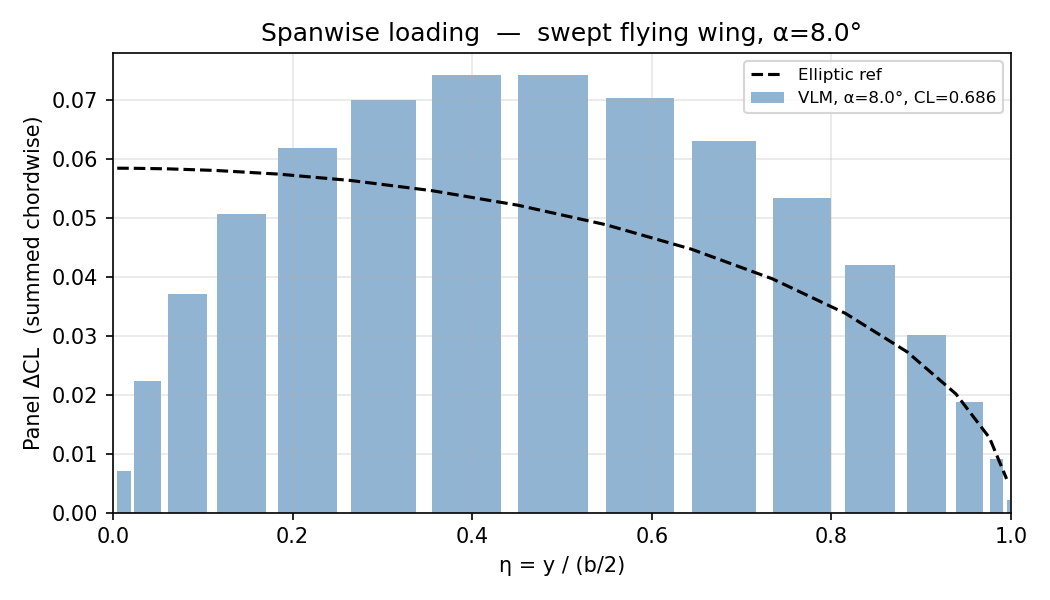
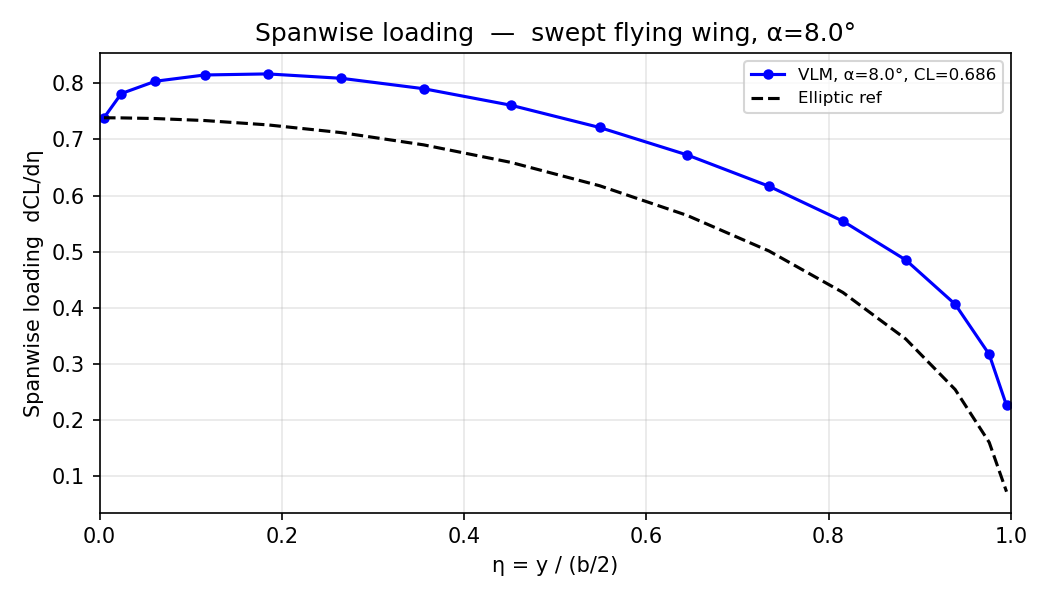
Fix spanwise loading plots: normalise by panel width
dCL per panel = Γ·Δy·(some factor), so on cosine-spaced meshes the root
panels have tiny Δy and appear near-zero even though Γ is maximum there.
Dividing by Δη = Δy/(b/2) recovers the true spanwise loading dCL/dη ∝ Γ(y),
which correctly peaks at the root for a symmetric half-wing model.

diff --git a/examples/01_rectangular_vlm/01_rectangular_vlm.py b/examples/01_rectangular_vlm/01_rectangular_vlm.py
@@ -103,37 +103,33 @@ mesh8 = make_vlm_mesh(half_span=HALF_SPAN, root_chord=CHORD, tip_chord=CHORD,
                       n_span=16, n_chord=1)
 res8 = solve_vlm(mesh8, alpha_deg=alpha_plot)
 
-# cp is the 3/4-chord collocation points; extract spanwise midpoints
-cp  = res8["cp"]           # (Np, 3)
-dCL = res8["dCL"]          # (Np,)  per-panel lift / (q * S_ref)
+dCL = res8["dCL"]          # (Np,)  panel lift contribution / (q * S_ref)
 A   = res8["A"]
 B   = res8["B"]
 
 # Spanwise coordinate at bound-vortex midpoint
 y_mid = 0.5 * (A[:, 1] + B[:, 1])   # (Np,)
+dy    = B[:, 1] - A[:, 1]            # (Np,) panel spanwise width
+b2    = HALF_SPAN
+eta   = y_mid / b2
+deta  = dy / b2                       # normalised panel width in η
 
-# For n_chord=1 each spanwise strip has one panel; normalise to strip-CL
-dy   = B[:, 1] - A[:, 1]       # (Np,) strip spanwise width
-b2   = HALF_SPAN
-# Elliptic reference: Gamma(y) = Gamma_0 * sqrt(1 - (y/b2)^2)
-# dCL/d(y/b2) for unit CL → proportional to sqrt(1-(y/b2)^2)
-CL8  = res8["CL"]
-eta  = y_mid / b2
-dCL_per_eta = dCL / (2 / b2)   # scale by strip width
+# Spanwise loading = dCL / dη.  dCL ∝ Γ·Δy so dividing by Δη gives the
+# loading distribution ∝ Γ(y), which peaks at the root for a symmetric wing.
+CL8          = res8["CL"]
+loading      = dCL / deta             # (Np,)  lift per unit η
 
-# Normalise by CL * c_local / c_ref → spanwise loading Gamma/(V*b)
-# For rectangular, just plot raw dCL vs y/b2
-fig, ax = plt.subplots(figsize=(6, 4))
-ax.plot(eta, dCL, "b-o", ms=4, label=f"VLM, α={alpha_plot}°, CL={CL8:.3f}")
-
-# Elliptic reference proportional to sqrt(1-eta^2), normalised to same CL
-eta_ref = np.linspace(0, 1, 200)
+# Elliptic reference: ∝ sqrt(1 - η²), normalised to match VLM at root
+eta_ref      = np.linspace(0, 1, 200)
 elliptic_ref = np.sqrt(np.maximum(1 - eta_ref**2, 0))
-scale = np.trapezoid(dCL, eta) / np.trapezoid(elliptic_ref, eta_ref)
+scale        = loading[0] / elliptic_ref[0]   # match at root (η≈0)
+
+fig, ax = plt.subplots(figsize=(6, 4))
+ax.plot(eta, loading, "b-o", ms=4, label=f"VLM, α={alpha_plot}°, CL={CL8:.3f}")
 ax.plot(eta_ref, elliptic_ref * scale, "k--", lw=1.5, label="Elliptic ref")
 
 ax.set_xlabel("η = y / (b/2)")
-ax.set_ylabel("Panel ΔCL  (per unit η)")
+ax.set_ylabel("Spanwise loading  dCL/dη")
 ax.set_title(f"Spanwise loading  –  AR={AR:.0f} rectangular, α={alpha_plot}°")
 ax.set_xlim(0, 1)
 ax.legend(fontsize=8)

diff --git a/examples/02_swept_flying_wing_vlm/02_swept_flying_wing_vlm.py b/examples/02_swept_flying_wing_vlm/02_swept_flying_wing_vlm.py
@@ -162,32 +162,30 @@ A   = res_load["A"]
 B   = res_load["B"]
 dCL = res_load["dCL"]   # per-panel lift / (q * S_ref)
 
-# Average bound-vortex y for each panel
-y_mid = 0.5 * (A[:, 1] + B[:, 1])   # (Np,)
-CL_load = res_load["CL"]
+# Spanwise coordinate at bound-vortex midpoint
+y_mid    = 0.5 * (A[:, 1] + B[:, 1])   # (Np,)
+dy_panel = B[:, 1] - A[:, 1]            # (Np,) panel widths
+CL_load  = res_load["CL"]
 
-# Spanwise integration: sum over chordwise panels per strip
-# Each panel is already a 1/4-chord bound-vortex segment; with n_chord > 1
-# there are multiple bound segments per spanwise strip.
-# Sort by y and accumulate per strip.
-unique_y = np.unique(np.round(y_mid, 6))
-dCL_strip = np.array([dCL[np.round(y_mid, 6) == yy].sum() for yy in unique_y])
+# Accumulate dCL per spanwise strip (sum over chordwise panels at same y).
+# Then normalise by strip η-width to get spanwise loading dCL/dη ∝ Γ(y).
+unique_y  = np.unique(np.round(y_mid, 6))
+dCL_strip = np.array([dCL[np.round(y_mid, 6) == yy].sum()     for yy in unique_y])
+dy_strip  = np.array([dy_panel[np.round(y_mid, 6) == yy].mean() for yy in unique_y])
 eta_strip = unique_y / HALF_SPAN
+deta      = dy_strip / HALF_SPAN
+loading   = dCL_strip / deta   # spanwise loading dCL/dη, peaks at root
 
-# Elliptic reference: normalised to same total CL
+# Elliptic reference: sqrt(1-η²), matched at root
 elliptic_shape = np.sqrt(np.maximum(1 - eta_strip**2, 0))
-if elliptic_shape.sum() > 0:
-    elliptic_norm = elliptic_shape * (dCL_strip.sum() / elliptic_shape.sum())
-else:
-    elliptic_norm = np.zeros_like(dCL_strip)
+elliptic_ref   = elliptic_shape * (loading[0] / max(elliptic_shape[0], 1e-12))
 
 fig, ax = plt.subplots(figsize=(7, 4))
-ax.bar(eta_strip, dCL_strip, width=np.diff(np.append(eta_strip, 1)) * 0.8,
-       align="edge", alpha=0.6, color="steelblue",
-       label=f"VLM, α={alpha_load}°, CL={CL_load:.3f}")
-ax.plot(eta_strip, elliptic_norm, "k--", lw=1.5, label="Elliptic ref")
+ax.plot(eta_strip, loading,      "b-o", ms=4,
+        label=f"VLM, α={alpha_load}°, CL={CL_load:.3f}")
+ax.plot(eta_strip, elliptic_ref, "k--", lw=1.5, label="Elliptic ref")
 ax.set_xlabel("η = y / (b/2)")
-ax.set_ylabel("Panel ΔCL  (summed chordwise)")
+ax.set_ylabel("Spanwise loading  dCL/dη")
 ax.set_title(f"Spanwise loading  —  swept flying wing, α={alpha_load}°")
 ax.set_xlim(0, 1)
 ax.legend(fontsize=8)
